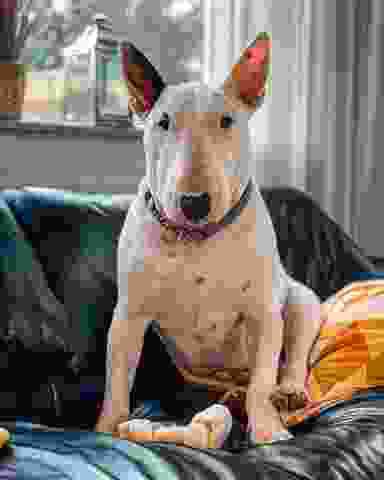
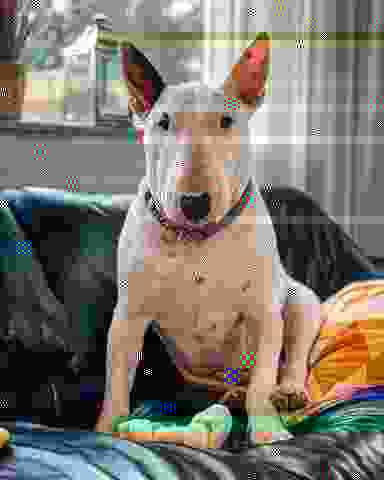
refactor(jpeg_crush)!: fold byte_corrupt into jpeg_crush
jpeg_crush gains hits (default 0), seed, dc_share and magnitude; hits=0 is the
plain crush. byte_corrupt(quality, hits, seed, ...) is now jpeg_crush with the
same arguments, byte for byte. Five parameters instead of six.

diff --git a/src/bullterrier_image/effects/jpeg_crush/effect.py b/src/bullterrier_image/effects/jpeg_crush/effect.py
@@ -1,14 +1,14 @@
-"""The `jpeg_crush` effect: the picture put through JPEG's lossy steps at a low quality, as a crushed photo."""
+"""The `jpeg_crush` effect: the picture put through JPEG's lossy steps at a low quality, optionally damaged."""
 
 import numpy as np
 
 from bullterrier_image.core.params import EffectParams, param
 from bullterrier_image.core.registry import effect
-from bullterrier_image.ops.jpeg import decode, encode
+from bullterrier_image.ops.jpeg import BLOCK, decode, encode
 
 
 class JpegCrushParams(EffectParams):
-    """The settings of `jpeg_crush`: the quality of the compression."""
+    """The settings of `jpeg_crush`: the quality of the compression, and how many coefficients are then damaged."""
 
     quality: int = param(
         6,
@@ -17,18 +17,79 @@ class JpegCrushParams(EffectParams):
         max=100,
         doc="The JPEG quality, 1 to 100, on the scale JPEG tools use (the Independent JPEG Group's): 100 keeps almost "
         "everything, about 75 is a normal photo, about 6 shows 8 px blocks, ringing round edges and colour bleed, 1 "
-        "is a few flat blocks. Lowering it coarsens the quantisation of every 8 x 8 block.",
+        "is a few flat blocks. Lowering it coarsens the quantisation of every 8 x 8 block, so each hit is also a "
+        "larger jump in the picture.",
+    )
+    hits: int = param(
+        0,
+        unit="count",
+        min=0,
+        max=5000,
+        doc="How many coefficients are damaged after the compression, 0 to 5000, each at a random place in a random "
+        "8 x 8 block of the brightness or one of the two colour planes, as a corrupted file shows. 0 leaves the "
+        "plain crushed picture, and then `seed`, `dc_share` and `magnitude` do nothing. Raising it spreads more "
+        "damage over the picture.",
+    )
+    seed: int = param(
+        0,
+        unit="count",
+        min=0,
+        max=2**32 - 1,
+        doc="Random seed for where the hits land and how large they are: the same seed always gives the same damage, "
+        "any other a different one.",
+    )
+    dc_share: float = param(
+        0.3,
+        unit="fraction",
+        min=0,
+        max=1,
+        doc="The share of hits, 0 to 1, that land on a block's DC value (its average) rather than on one of its 63 "
+        "detail coefficients. A DC hit shifts the block and, as JPEG stores each average as a difference from the "
+        "block before, every later block of its row: a streak to the right edge. A detail hit only marks its own "
+        "block with a pattern.",
+        advanced=True,
+    )
+    magnitude: int = param(
+        8,
+        unit="count",
+        min=1,
+        max=100,
+        doc="The largest change a hit makes to a coefficient, 1 to 100 quantisation steps: each hit adds or subtracts "
+        "a whole number of steps between 1 and this. Raising it makes the damage louder.",
+        advanced=True,
     )
 
 
 @effect(category="glitch", params=JpegCrushParams)
 def jpeg_crush(rgb: np.ndarray, params: JpegCrushParams) -> np.ndarray:
-    """Compress the picture with a JPEG codec written as maths, at `quality`, and return what it decodes to.
+    """Compress the picture with a JPEG codec written as maths at `quality`, damage `hits` coefficients, and decode it.
 
     The steps are the standard's (ITU-T T.81 with JFIF): sRGB to YCbCr, the two colour planes halved in each direction
     (4:2:0), 8 x 8 blocks through the DCT, every coefficient rounded to a multiple of its quantisation step, then all
     of it undone. There is no file and no byte: the result does not depend on any image library, so it is alike on
     every platform. A picture whose sides are not multiples of 16 is extended by repeating its last row and column
     and cropped back.
+
+    Each hit picks a block at random from all those of the brightness and the two colour planes, and a coefficient in
+    it (the DC value with chance `dc_share`, otherwise one of the 63 others), and adds or subtracts between 1 and
+    `magnitude` quantisation steps before the decoding. A hit on a DC value also moves the DC value of every later
+    block of its row in that plane, as a damaged difference does in the file.
     """
-    return decode(encode(rgb, quality=params.quality))
+    coded = encode(rgb, quality=params.quality)
+    planes = coded.planes  # arrays `encode` just made, so they are ours to damage in place
+    rng = np.random.default_rng(params.seed)
+    picks = rng.integers(sum(plane.shape[0] * plane.shape[1] for plane in planes), size=params.hits)
+    on_dc = rng.random(params.hits) < params.dc_share
+    detail = 1 + rng.integers(BLOCK * BLOCK - 1, size=params.hits)  # which of the 63 others, in row-major order
+    steps = (1 + rng.integers(params.magnitude, size=params.hits)) * np.where(rng.random(params.hits) < 0.5, -1, 1)
+    for pick, dc, coefficient, change in zip(picks, on_dc, detail, steps, strict=True):
+        for plane in planes:  # the pick numbers the blocks of the planes one after the other
+            if pick < plane.shape[0] * plane.shape[1]:
+                break
+            pick -= plane.shape[0] * plane.shape[1]
+        row, column = divmod(int(pick), plane.shape[1])
+        if dc:
+            plane[row, column:, 0, 0] += change  # the later blocks' values are differences from this one
+        else:
+            plane[row, column][divmod(int(coefficient), BLOCK)] += change
+    return decode(coded)

diff --git a/tests/effects/jpeg_crush/test_jpeg_crush.py b/tests/effects/jpeg_crush/test_jpeg_crush.py
@@ -1,4 +1,5 @@
-"""Behaviour of the `jpeg_crush` effect: the picture put through JPEG's lossy steps at a low quality."""
+"""Behaviour of the `jpeg_crush` effect: the picture put through JPEG's lossy steps at a low quality, then `hits`
+coefficients damaged at random, as a corrupted file shows it."""
 
 import numpy as np
 import pytest
@@ -96,3 +97,85 @@ def test_at_quality_100_a_smooth_picture_comes_back_within_a_grey_level_or_two()
 def test_the_lower_the_quality_the_further_the_picture_is_from_the_original(photo) -> None:
     errors = [mean_error(photo, registry.apply(NAME, photo, quality=q)) for q in (95, 75, 50, 25, 5)]
     assert errors == sorted(set(errors))  # strictly rising
+
+
+HEIGHT, WIDTH = 64, 128
+SEEDS = range(6)
+
+
+@pytest.fixture
+def smooth() -> np.ndarray:
+    """A gentle colour gradient well inside 0..1, so that damage never runs into the ends of the range and hides."""
+    y, x = np.mgrid[0:HEIGHT, 0:WIDTH].astype(np.float32)
+    return 0.3 + 0.4 * np.stack([x / WIDTH, y / HEIGHT, (x + y) / (WIDTH + HEIGHT)], axis=-1)
+
+
+def differing(before: np.ndarray, after: np.ndarray) -> np.ndarray:
+    return (before != after).any(axis=-1)
+
+
+@pytest.mark.parametrize(
+    "damage",
+    [
+        pytest.param({"seed": 7}, id="seed"),
+        pytest.param({"dc_share": 1.0}, id="dc_share"),
+        pytest.param({"magnitude": 100}, id="magnitude"),
+    ],
+)
+def test_without_hits_the_damage_settings_change_nothing(smooth, damage) -> None:
+    np.testing.assert_array_equal(
+        registry.apply(NAME, smooth, quality=30, **damage), registry.apply(NAME, smooth, quality=30)
+    )
+
+
+@pytest.mark.parametrize("seed", SEEDS)
+def test_a_dc_hit_carries_on_to_every_later_block_of_its_row_and_to_no_other_row(smooth, seed) -> None:
+    """DC values are coded as differences from the block before, so damage to one moves all that follow in the row:
+    the changed pixels run, from the first changed column on, to the picture's right edge, within one band of rows (a
+    luma block is 8 rows tall, a chroma block, covering 2 x 2 luma blocks, 16)."""
+    clean = registry.apply(NAME, smooth, quality=30)
+    out = registry.apply(NAME, smooth, quality=30, hits=1, dc_share=1.0, seed=seed)
+    changed = differing(clean, out)
+    columns, rows = np.flatnonzero(changed.any(axis=0)), np.flatnonzero(changed.any(axis=1))
+    assert np.array_equal(columns, np.arange(columns[0], WIDTH))  # from the first changed column to the last
+    assert rows[0] // 16 == rows[-1] // 16  # inside one aligned band of 16 rows
+
+
+@pytest.mark.parametrize("seed", SEEDS)
+def test_an_ac_hit_stays_inside_one_block_of_the_8_px_grid(smooth, seed) -> None:
+    """A hit on any other coefficient changes only its own block: 8 x 8 pixels of luma, or 16 x 16 for the colour
+    planes, whose blocks cover four luma blocks. Either way the changed pixels fit in one aligned 16 x 16 cell."""
+    clean = registry.apply(NAME, smooth, quality=30)
+    out = registry.apply(NAME, smooth, quality=30, hits=1, dc_share=0.0, seed=seed)
+    rows, columns = np.nonzero(differing(clean, out))
+    assert len(rows) > 0
+    assert rows.min() // 16 == rows.max() // 16
+    assert columns.min() // 16 == columns.max() // 16
+
+
+def test_more_hits_damage_more_of_the_picture(smooth) -> None:
+    clean = registry.apply(NAME, smooth, quality=30)
+    few = differing(clean, registry.apply(NAME, smooth, quality=30, hits=3, seed=1)).sum()
+    many = differing(clean, registry.apply(NAME, smooth, quality=30, hits=60, seed=1)).sum()
+    assert 0 < few < many
+
+
+def test_a_larger_magnitude_changes_the_pixels_further(smooth) -> None:
+    clean = registry.apply(NAME, smooth, quality=30)
+    small = np.abs(clean - registry.apply(NAME, smooth, quality=30, hits=1, magnitude=1, dc_share=1.0, seed=2))
+    large = np.abs(clean - registry.apply(NAME, smooth, quality=30, hits=1, magnitude=40, dc_share=1.0, seed=2))
+    assert 0 < small.max() < large.max()
+
+
+def test_detail_hits_never_move_the_average_of_a_block_and_dc_hits_do_in_both_directions(smooth) -> None:
+    """The mean of the picture is the DC values' business alone: hits on the other 63 coefficients of each block change
+    its pattern and leave its mean, so the picture's mean, where nothing is clamped (small steps, a mid-range picture).
+    A DC hit shifts it up or down, by the sign of the hit."""
+    clean = registry.apply(NAME, smooth, quality=90)
+    detail = registry.apply(NAME, smooth, quality=90, hits=300, magnitude=1, dc_share=0.0, seed=1)
+    assert not np.array_equal(detail, clean)
+    np.testing.assert_allclose((detail - clean).mean(), 0, atol=1e-6)
+    moves = [
+        (registry.apply(NAME, smooth, quality=90, hits=1, dc_share=1.0, seed=seed) - clean).sum() for seed in range(12)
+    ]
+    assert min(moves) < 0 < max(moves)

diff --git a/tests/effects/test_contract.py b/tests/effects/test_contract.py
@@ -489,7 +489,10 @@ def test_each_interpolation_reads_the_picture_its_own_way(name):
         assert not np.array_equal(outs[first], outs[second]), f"{first} and {second} give the same picture"
 
 
-SEED_NEEDS = {"disperse": {"progress": 0.5}}  # at its default progress nothing has moved yet, whatever the seed
+SEED_NEEDS: dict[str, dict[str, float]] = {  # at their defaults nothing is random yet, whatever the seed
+    "disperse": {"progress": 0.5},
+    "jpeg_crush": {"hits": 40},
+}
 
 
 def _assert_the_seed_decides_the_picture(name: str, photo: np.ndarray) -> None:

diff --git a/docs/effects-roadmap.md b/docs/effects-roadmap.md
@@ -193,7 +193,7 @@ of the picture, so a look does not depend on the resolution. `Framing.documentat
 | --- | --- | --- |
 | `glitch` ✓ | Channel split and sliding bands. | `fx.glitch(split=9, bands=8)` |
 | `rgb_split` ✓ | Channel offset on its own, any direction. | `fx.rgb_split(angle=30, amount=8)` |
-| `jpeg_crush` ✓ | Re-encode at very low quality (the JPEG algorithm as maths: blocks, chroma bleed). | `fx.jpeg_crush(quality=6)` |
+| `jpeg_crush` ✓ | Re-encode at very low quality (the JPEG algorithm as maths: blocks, chroma bleed). | `fx.jpeg_crush(quality=6)`; with `hits`, damaged coefficients: smears and colour blocks, `fx.jpeg_crush(quality=20, hits=40, seed=2)` |
 | `scan_roll` ✓ | Vertical or horizontal sync roll. | `fx.scan_roll(offset=0.2)` |
 | `interlace` ✓ | Even/odd line offset and combing. | `fx.interlace(offset=6)` |
 | `signal_noise` ✓ | Static bands and dropouts. | `fx.signal_noise(bands=3, seed=1)` |
@@ -201,7 +201,6 @@ of the picture, so a look does not depend on the resolution. `Framing.documentat
 | `prism` ✓ | Rainbow dispersion. | `fx.prism(amount=18)` |
 | `anaglyph` ✓ | Red/cyan 3D look. | `fx.anaglyph(shift=6)` |
 | `dead_pixels` ✓ | Stuck and dead LCD pixels. | `fx.dead_pixels(count=120, seed=1)` |
-| `byte_corrupt` ✓ | Damage a JPEG's stored coefficients, then decode: smears and colour blocks. | `fx.byte_corrupt(hits=40, seed=2)` |
 | `hologram` ✓ | Cyan scanlines, flicker, edge glow. | `fx.hologram(color="#30e0ff", phase=0.3)` |
 
 ## Atmosphere
@@ -369,7 +368,6 @@ band), resolved like a `Drive`'s `by`; only named fields are built. This merges 
 | `fade` | `levels(output_black)` |
 | `invert` | a `levels` preset |
 | `clarity` | a `sharpen` preset |
-| `byte_corrupt` | `jpeg_crush` + `hits` |
 | `prism` | `chromatic_aberration` + `samples` |
 | `noise`, `film_grain` | `grain` (`shadows`, `highlights`, `color`, `distribution`) |
 | `black_and_white` | a `channel_mixer` preset |
